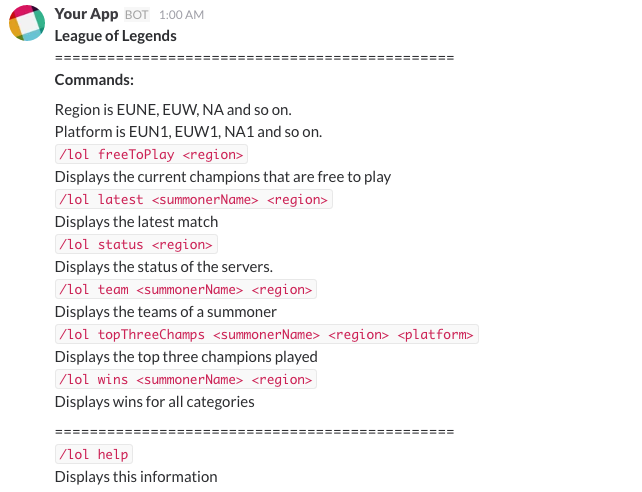
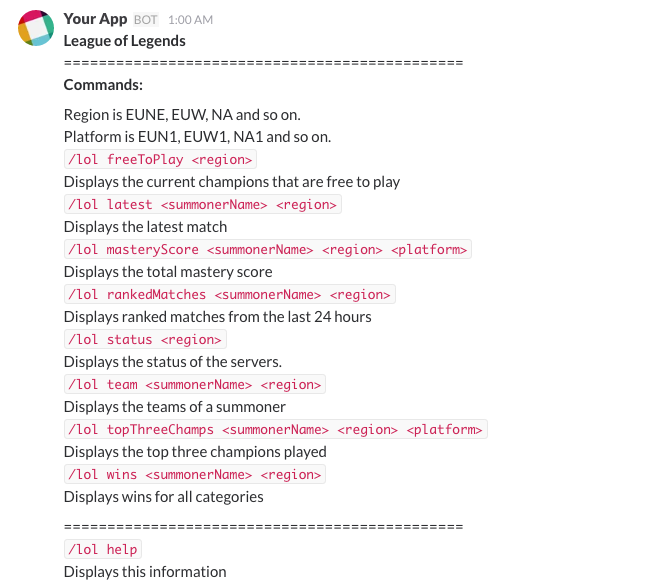
Added rankedMatches and masteryScore, updated readme and help

Changed region(s): [[0.0, 0.0, 0.7477, 1.0]]

diff --git a/services/riot.js b/services/riot.js
@@ -3,6 +3,7 @@ const GLOBAL_BASE = process.env.LOL_GLOBAL
 const KEY = process.env.RIOT_API_KEY
 const fetch = require('../utils/fetch')
 const _ = require('lodash')
+const moment = require('moment')
 
 function prepUrl (url, region = 'eune', base = BASE, options) {
   base = base.replace('{region}', region)
@@ -48,7 +49,19 @@ function summonerStatsSummaryById (summoner, region) {
 }
 
 function topThreeChampions (summoner, region, platform) {
-  const url = prepUrl(`/championmastery/location/${platform}/player/${summoner.id}/topchampions`, null, 'https://eune.api.pvp.net/')
+  const url = prepUrl(`/championmastery/location/${platform}/player/${summoner.id}/topchampions`, null, 'https://eune.api.pvp.net')
+
+  return fetch(url)
+}
+
+function championMasteryAll (summoner, region, platform) {
+  const url = prepUrl(`/championmastery/location/${platform}/player/${summoner.id}/champions`, null, 'https://eune.api.pvp.net')
+
+  return fetch(url)
+}
+
+function masteryScore (summoner, region, platform) {
+  const url = prepUrl(`/championmastery/location/${platform}/player/${summoner.id}/score`, null, 'https://eune.api.pvp.net')
 
   return fetch(url)
 }
@@ -66,6 +79,26 @@ function teamBySummonerId (summoner, region) {
     .then(data => Object.assign(summoner, { teams: data[summoner.id] }))
 }
 
+function match (match, region) {
+  const url = prepUrl(`/v2.2/match/${match.matchId}`, region)
+
+  return fetch(url)
+    .then(data => Object.assign(match, { match: data }))
+}
+
+function rankedMatches (summoner, region) {
+  const time = moment()
+    .subtract(1, 'day')
+    .hour(0)
+    .minute(0)
+    .second(0)
+    .format('x')
+
+  const url = prepUrl(`/v2.2/matchlist/by-summoner/${summoner.id}`, region, BASE, `&rankedQueues=TEAM_BUILDER_DRAFT_RANKED_5x5&seasons=SEASON2016&beginTime=${time}`)
+
+  return fetch(url)
+}
+
 function status (region) {
   const url = prepUrl(`/shards/${region.toLowerCase()}`, null, 'http://status.leagueoflegends.com')
 
@@ -73,9 +106,13 @@ function status (region) {
 }
 
 module.exports = {
-  champions: champions,
   championById: championById,
+  championMasteryAll: championMasteryAll,
+  champions: champions,
   gameBySummoner: gameBySummoner,
+  match: match,
+  masteryScore: masteryScore,
+  rankedMatches: rankedMatches,
   status: status,
   summonerByIds: summonerByIds,
   summonerByName: summonerByName,

diff --git a/lib/rankedMatches.js b/lib/rankedMatches.js
@@ -1,0 +1,69 @@
+const rankedMatchesService = require('../services/rankedMatches')
+const fetch = require('node-fetch')
+const slackFormat = require('./slackFormat')
+const moment = require('moment')
+const timeParser = require('../utils/timeParser')
+
+function getRanked (summoner, region) {
+  return new Promise(resolve => {
+    rankedMatchesService(summoner, region)
+      .toArray(champions => resolve(champions))
+  })
+}
+
+function fixMatches(matches) {
+    // {
+    //   mrkdwn_in: ['text'],
+    //   title: `${champion.name} - ${champion.title}`,
+    //   thumb_url: image,
+    //   fields: [
+    //     { title: 'Score', value: score, short: true },
+    //     { title: 'KDA', value: kda, short: true },
+    //     { title: 'CS', value: cs, short: true },
+    //     { title: 'Gold', value: stats.goldEarned, short: true },
+    //     { title: 'Multikill', value: multikills[stats.largestMultiKill - 1], short: true },
+    //     { title: 'Level', value: stats.level, short: true },
+    //     { title: 'Wards (placed/killed)', value: wards, short: true }
+    //   ]
+    // }
+
+  return matches.map(match => {
+    return {
+      mrkdwn_in: ['text'],
+      thumb_url: `http://ddragon.leagueoflegends.com/cdn/5.2.1/img/champion/${match.champion.image.full}`,
+      title: `Match played on ${moment(match.timestamp).format('YYYY-MM-DD HH:mm')}`,
+      fields: [
+        { title: 'Lane', value: match.lane, short: true },
+        { title: 'Role', value: match.role, short: true },
+        { title: 'Champion', value: match.champion.name, short: true },
+        { title: 'Duration', value: timeParser(match.match.matchDuration), short: true }
+      ]
+    }
+  })
+}
+
+function* rankedMatches (summoner, region = 'eune', params) {
+  const matches = yield getRanked(summoner, region)
+  region = region.toUpperCase()
+
+  const fixedMatches = fixMatches(matches)
+
+  const response = {
+    response_type: 'in_channel',
+    mrkdwn: true,
+    text: `*League of Legends - Ranked matches last 24 hours for ${summoner} (${region})*`,
+    attachments: fixedMatches
+  }
+
+  const options = {
+    method: 'POST',
+    body: JSON.stringify(response)
+  }
+
+  fetch(params.response_url, options)
+    .then(res => console.log(res))
+
+  return slackFormat(response)
+}
+
+module.exports = rankedMatches

diff --git a/lib/index.js b/lib/index.js
@@ -1,6 +1,8 @@
 const freeToPlay = require('./freeToPlay')
 const help = require('./help')
 const latest = require('./latestGame')
+const masteryScore = require('./masteryScore')
+const rankedMatches = require('./rankedMatches')
 const status = require('./status')
 const team = require('./team')
 const topThreeChamps = require('./topThreeChamps')
@@ -21,13 +23,19 @@ function *index () {
 
   switch (command) {
     case 'freeToPlay':
-      this.body = yield freeToPlay(summoner || 'eune', params)
+      this.body = yield freeToPlay(summoner, params)
       break
     case 'latest':
       this.body = yield latest(summoner, region, params)
       break
+    case 'masteryScore':
+      this.body = yield masteryScore(summoner, region, platform, params)
+      break
+    case 'rankedMatches':
+      this.body = yield rankedMatches(summoner, region, params)
+      break
     case 'status':
-      this.body = yield status(summoner || 'eune', params)
+      this.body = yield status(summoner, params)
       break
     case 'team':
       this.body = yield team(summoner, region, params)

diff --git a/lib/masteryScore.js b/lib/masteryScore.js
@@ -1,0 +1,33 @@
+const masteryScoreService = require('../services/masteryScore')
+const fetch = require('node-fetch')
+const slackFormat = require('./slackFormat')
+
+function getMasteryScore (summoner, region, platform) {
+  return new Promise(resolve => {
+    masteryScoreService(summoner, region, platform)
+      .toArray(champions => resolve(champions))
+  })
+}
+
+function* masteryScore (summoner, region = 'eune', platform, params) {
+  const score = yield getMasteryScore(summoner, region, platform)
+  region = region.toUpperCase()
+
+  const response = {
+    response_type: 'in_channel',
+    mrkdwn: true,
+    text: `*League of Legends - Mastery score for ${summoner} is _${score}_ (${region})*`
+  }
+
+  const options = {
+    method: 'POST',
+    body: JSON.stringify(response)
+  }
+
+  fetch(params.response_url, options)
+    .then(res => console.log(res))
+
+  return slackFormat(response)
+}
+
+module.exports = masteryScore

diff --git a/services/rankedMatches.js b/services/rankedMatches.js
@@ -1,0 +1,15 @@
+const _ = require('highland')
+const riot = require('./riot')
+
+function rankedMatches (summonerName, region) {
+  return _(riot.summonerByName(summonerName, region))
+    .map(summoner => summoner[summonerName])
+    .flatMap(summoner => _(riot.rankedMatches(summoner, region)))
+    .flatMap(matches => matches.matches)
+    .map(match => _(riot.championById(match, match.champion, region)))
+    .flatMap(match => match)
+    .map(match => _(riot.match(match, region)))
+    .flatMap(match => match)
+}
+
+module.exports = rankedMatches

diff --git a/lib/help.js b/lib/help.js
@@ -9,6 +9,10 @@ const text = '*League of Legends*'+
   'Displays the current champions that are free to play\n' +
   '`/lol latest <summonerName> <region>`\n' +
   'Displays the latest match\n' +
+  '`/lol masteryScore <summonerName> <region> <platform>`\n' +
+  'Displays the total mastery score\n' +
+  '`/lol rankedMatches <summonerName> <region>`\n' +
+  'Displays ranked matches from the last 24 hours\n' +
   '`/lol status <region>`\n' +
   'Displays the status of the servers.\n' +
   '`/lol team <summonerName> <region>`\n' +

diff --git a/services/masteryScore.js b/services/masteryScore.js
@@ -1,0 +1,10 @@
+const _ = require('highland')
+const riot = require('./riot')
+
+function masteryScore (summonerName, region, platform) {
+  return _(riot.summonerByName(summonerName, region))
+    .map(summoner => summoner[summonerName])
+    .flatMap(summoner => _(riot.masteryScore(summoner, region, platform)))
+}
+
+module.exports = masteryScore

diff --git a/lib/status.js b/lib/status.js
@@ -2,7 +2,7 @@ const riot = require('../services/riot')
 const fetch = require('node-fetch')
 const slackFormat = require('./slackFormat')
 
-function *status (region, params) {
+function *status (region = 'eune', params) {
   if (!region) {
     return {
       response_type: 'ephemeral',

diff --git a/README.md b/README.md
@@ -53,6 +53,20 @@ Displays statistics from a summoner's latest game.
 
 ![latest command](/assets/latest.png)
 
+#### `/lol masteryScore <summonerName> <region>`
+#### [TRY IT!](https://api.slack.com/docs/formatting/builder?msg=%7B%22mrkdwn%22:true,%22text%22:%22*League%20of%20Legends%20-%20Mastery%20score%20for%20believer%20is%20_184_%20(EUNE)*%22%7D)
+
+Displays total mastery score of a summoner.
+
+![masteryScore command](/assets/masteryScore.png)
+
+#### `/lol rankedMatches <summonerName> <region>`
+#### [TRY IT!](https://api.slack.com/docs/formatting/builder?msg=%7B%22mrkdwn%22:true,%22text%22:%22*League%20of%20Legends%20-%20Ranked%20matches%20last%2024%20hours%20for%20believer%20(EUNE)*%22,%22attachments%22:%5B%7B%22mrkdwn_in%22:%5B%22text%22%5D,%22thumb_url%22:%22http://ddragon.leagueoflegends.com/cdn/5.2.1/img/champion/Sivir.png%22,%22title%22:%22Match%20played%20on%202016-04-28%2021:01%22,%22fields%22:%5B%7B%22title%22:%22Lane%22,%22value%22:%22BOTTOM%22,%22short%22:true%7D,%7B%22title%22:%22Role%22,%22value%22:%22DUO_CARRY%22,%22short%22:true%7D,%7B%22title%22:%22Champion%22,%22value%22:%22Sivir%22,%22short%22:true%7D,%7B%22title%22:%22Duration%22,%22value%22:%2222:51%22,%22short%22:true%7D%5D%7D,%7B%22mrkdwn_in%22:%5B%22text%22%5D,%22thumb_url%22:%22http://ddragon.leagueoflegends.com/cdn/5.2.1/img/champion/Ekko.png%22,%22title%22:%22Match%20played%20on%202016-04-28%2020:20%22,%22fields%22:%5B%7B%22title%22:%22Lane%22,%22value%22:%22TOP%22,%22short%22:true%7D,%7B%22title%22:%22Role%22,%22value%22:%22SOLO%22,%22short%22:true%7D,%7B%22title%22:%22Champion%22,%22value%22:%22Ekko%22,%22short%22:true%7D,%7B%22title%22:%22Duration%22,%22value%22:%2230:30%22,%22short%22:true%7D%5D%7D%5D%7D)
+
+Displays ranked matches from the last 24 hours.
+
+![rankedMatches command](/assets/rankedMatches.png)
+
 #### `/lol status <region>`
 #### [TRY IT!](https://api.slack.com/docs/formatting/builder?msg=%7B%22mrkdwn%22:true,%22text%22:%22*League%20of%20Legends%20-%20Status%20for%20EU%20Nordic%20&%20East*%22,%22attachments%22:%5B%7B%22fields%22:%5B%7B%22title%22:%22Game%22,%22value%22:%22online%22,%22short%22:true%7D,%7B%22title%22:%22Store%22,%22value%22:%22online%22,%22short%22:true%7D,%7B%22title%22:%22Website%22,%22value%22:%22online%22,%22short%22:true%7D,%7B%22title%22:%22Client%22,%22value%22:%22online%22,%22short%22:true%7D%5D%7D%5D%7D)
 
